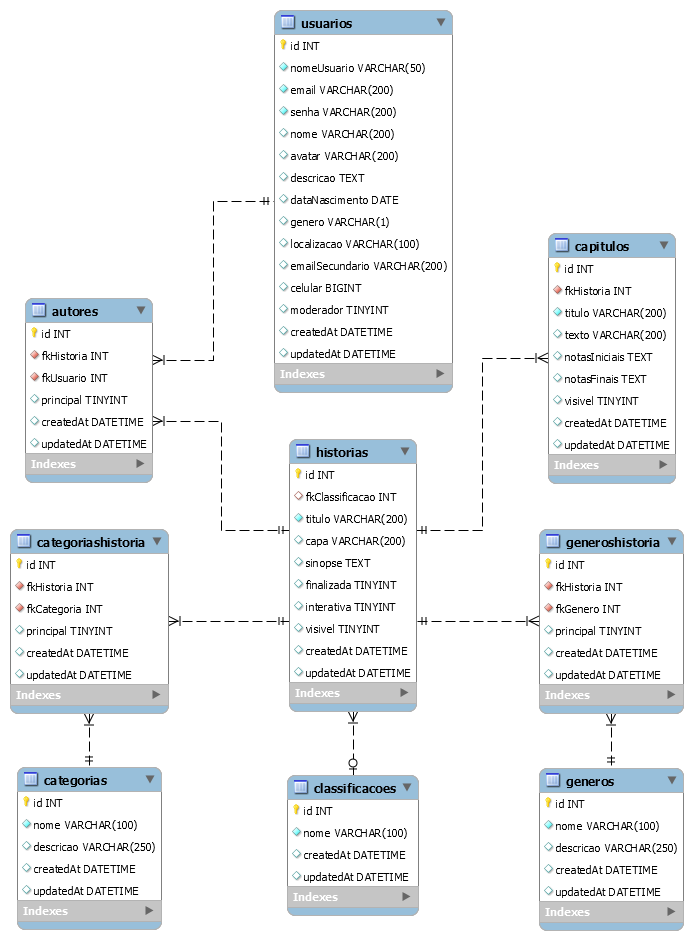
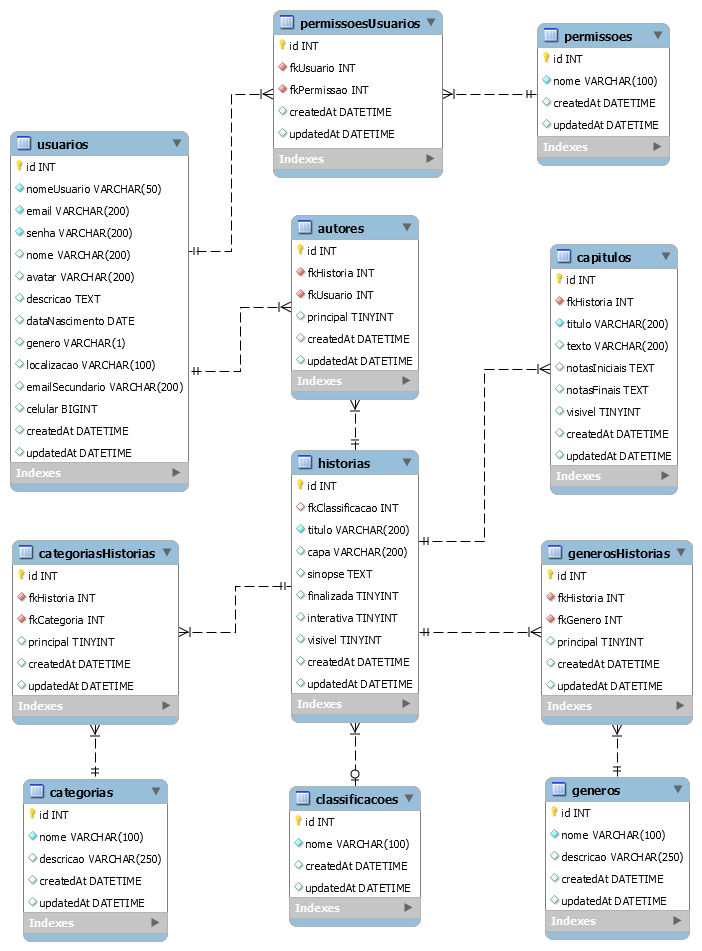
refactor: alteração do nome de alguns modelos

diff --git a/models/CategoriaHistoria.js b/models/CategoriaHistoria.js
@@ -1,6 +1,6 @@
 module.exports = (sequelize, DataTypes) => {
-    const GenerosHistoria = sequelize.define(
-        "GenerosHistoria", {
+    const CategoriaHistoria = sequelize.define(
+        "CategoriaHistoria", {
             id: {
                 type: DataTypes.INTEGER,
                 primaryKey: true,
@@ -10,7 +10,7 @@ module.exports = (sequelize, DataTypes) => {
                 type: DataTypes.INTEGER,
                 allowNull: false,
             },
-            fkGenero: {
+            fkCategoria: {
                 type: DataTypes.INTEGER,
                 allowNull: false,
             },
@@ -19,18 +19,18 @@ module.exports = (sequelize, DataTypes) => {
             updatedAt: DataTypes.DATE,
         }, {
             timestamps: false,
-            tableName: "generosHistoria",
+            tableName: "categoriasHistorias",
         }
     );
 
-    GenerosHistoria.associate = (models) => {
-        /*GenerosHistoria.belongsTo(models.Historia, {
+    CategoriaHistoria.associate = (models) => {
+        /*CategoriaHistoria.belongsTo(models.Historia, {
             foreignKey: "fkHistoria",
         });
-        GenerosHistoria.belongsTo(models.Genero, {
-            foreignKey: "fkGenero",
-        });*/
+        CategoriaHistoria.belongsTo(models.Categoria, {
+            foreignKey: "fkCategoria",
+        });*/ 
     };
-    
-    return GenerosHistoria;
+
+    return CategoriaHistoria;
 };

diff --git a/models/GeneroHistoria.js b/models/GeneroHistoria.js
@@ -1,6 +1,6 @@
 module.exports = (sequelize, DataTypes) => {
-    const CategoriasHistoria = sequelize.define(
-        "CategoriasHistoria", {
+    const GeneroHistoria = sequelize.define(
+        "GeneroHistoria", {
             id: {
                 type: DataTypes.INTEGER,
                 primaryKey: true,
@@ -10,7 +10,7 @@ module.exports = (sequelize, DataTypes) => {
                 type: DataTypes.INTEGER,
                 allowNull: false,
             },
-            fkCategoria: {
+            fkGenero: {
                 type: DataTypes.INTEGER,
                 allowNull: false,
             },
@@ -19,18 +19,18 @@ module.exports = (sequelize, DataTypes) => {
             updatedAt: DataTypes.DATE,
         }, {
             timestamps: false,
-            tableName: "categoriasHistoria",
+            tableName: "generosHistorias",
         }
     );
 
-    CategoriasHistoria.associate = (models) => {
-        /*CategoriasHistoria.belongsTo(models.Historia, {
+    GeneroHistoria.associate = (models) => {
+        /*GeneroHistoria.belongsTo(models.Historia, {
             foreignKey: "fkHistoria",
         });
-        CategoriasHistoria.belongsTo(models.Categoria, {
-            foreignKey: "fkCategoria",
-        });*/ 
+        GeneroHistoria.belongsTo(models.Genero, {
+            foreignKey: "fkGenero",
+        });*/
     };
-
-    return CategoriasHistoria;
+    
+    return GeneroHistoria;
 };

diff --git a/models/Historia.js b/models/Historia.js
@@ -34,10 +34,10 @@ module.exports = (sequelize, DataTypes) => {
         /*Historia.hasMany(models.Autor, {
             foreignKey: "fkHistoria",
         });
-        Historia.hasMany(models.GenerosHistoria, {
+        Historia.hasMany(models.GeneroHistoria, {
             foreignKey: "fkHistoria",
         });
-        Historia.hasMany(models.CategoriasHistoria, {
+        Historia.hasMany(models.CategoriaHistoria, {
             foreignKey: "fkHistoria",
         });*/
         Historia.belongsToMany(models.Usuario, {
@@ -50,13 +50,13 @@ module.exports = (sequelize, DataTypes) => {
             foreignKey: "fkHistoria",
             sourceKey: "id",
             targetKey: "id",
-            through: models.GenerosHistoria,
+            through: models.GeneroHistoria,
         });
         Historia.belongsToMany(models.Categoria, {
             foreignKey: "fkHistoria",
             sourceKey: "id",
             targetKey: "id",
-            through: models.CategoriasHistoria,
+            through: models.CategoriaHistoria,
         });
     };
 

diff --git a/models/Categoria.js b/models/Categoria.js
@@ -22,14 +22,14 @@ module.exports = (sequelize, DataTypes) => {
     );
 
     Categoria.associate = (models) => {
-        /*Categoria.hasMany(models.CategoriasHistoria, {
+        /*Categoria.hasMany(models.CategoriaHistoria, {
             foreignKey: "fkCategoria",
         });*/
         Categoria.belongsToMany(models.Historia, {
             foreignKey: "fkCategoria",
             sourceKey: "id",
             targetKey: "id",
-            through: models.CategoriasHistoria,
+            through: models.CategoriaHistoria,
         });
     };
 

diff --git a/models/Genero.js b/models/Genero.js
@@ -22,14 +22,14 @@ module.exports = (sequelize, DataTypes) => {
     );
 
     Genero.associate = (models) => {
-        /*Genero.hasMany(models.GenerosHistoria, {
+        /*Genero.hasMany(models.GeneroHistoria, {
             foreignKey: "fkGenero",
         });*/
         Genero.belongsToMany(models.Historia, {
             foreignKey: "fkGenero",
             sourceKey: "id",
             targetKey: "id",
-            through: models.GenerosHistoria,
+            through: models.GeneroHistoria,
         });
     };
 

diff --git a/migrations/20200606152707-create_table_categoriasHistorias.js b/migrations/20200606152707-create_table_categoriasHistorias.js
@@ -2,7 +2,7 @@
 
 module.exports = {
   up: (queryInterface, Sequelize) => {
-      return queryInterface.createTable("categoriasHistoria", { 
+      return queryInterface.createTable("categoriasHistorias", { 
         id: {
             type: Sequelize.INTEGER,
             primaryKey: true,
@@ -31,6 +31,6 @@ module.exports = {
   },
 
   down: (queryInterface, Sequelize) => {
-      return queryInterface.dropTable("categoriasHistoria");
+      return queryInterface.dropTable("categoriasHistorias");
   }
 };

diff --git a/migrations/20200606152632-create_table_generosHistorias.js b/migrations/20200606152632-create_table_generosHistorias.js
@@ -2,7 +2,7 @@
 
 module.exports = {
   up: (queryInterface, Sequelize) => {
-      return queryInterface.createTable("generosHistoria", { 
+      return queryInterface.createTable("generosHistorias", { 
         id: {
             type: Sequelize.INTEGER,
             primaryKey: true,
@@ -31,6 +31,6 @@ module.exports = {
   },
 
   down: (queryInterface, Sequelize) => {
-      return queryInterface.dropTable("generosHistoria");
+      return queryInterface.dropTable("generosHistorias");
   }
 };

diff --git a/controllers/authController.js b/controllers/authController.js
@@ -15,7 +15,12 @@ const authController = {
     },
 
     admin: (req, res) => {
-        return res.render("auth/admin", { title: "Admin" });
+        const logado = req.session.usuario;
+        if (!logado) {
+            return res.render("auth/admin", { title: "Admin" });
+        } else {
+            return res.redirect("/admin/painel");
+        }
     },
 
     painel: (req, res) => {

diff --git a/models/Usuario.js b/models/Usuario.js
@@ -34,7 +34,7 @@ module.exports = (sequelize, DataTypes) => {
                 type: DataTypes.BIGINT,
                 unique: true,
             },
-            moderador: DataTypes.BOOLEAN,
+            //moderador: DataTypes.BOOLEAN,
             createdAt: DataTypes.DATE,
             updatedAt: DataTypes.DATE,
         }, {

diff --git a/migrations/20200606152401-create_table_usuarios.js b/migrations/20200606152401-create_table_usuarios.js
@@ -36,7 +36,7 @@ module.exports = {
             type: Sequelize.BIGINT,
             unique: true,
         },
-        moderador: Sequelize.BOOLEAN,
+        //moderador: Sequelize.BOOLEAN,
         createdAt: Sequelize.DATE,
         updatedAt: Sequelize.DATE,
     });
